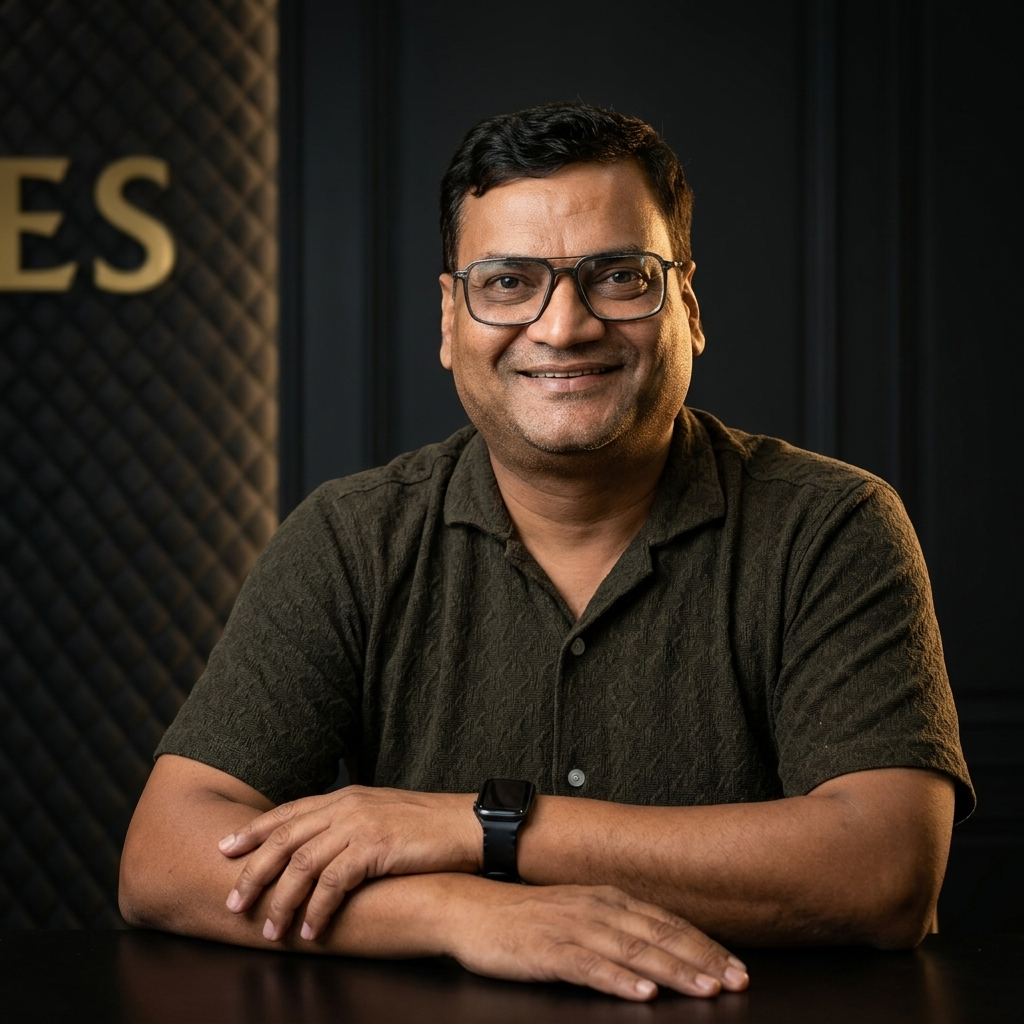
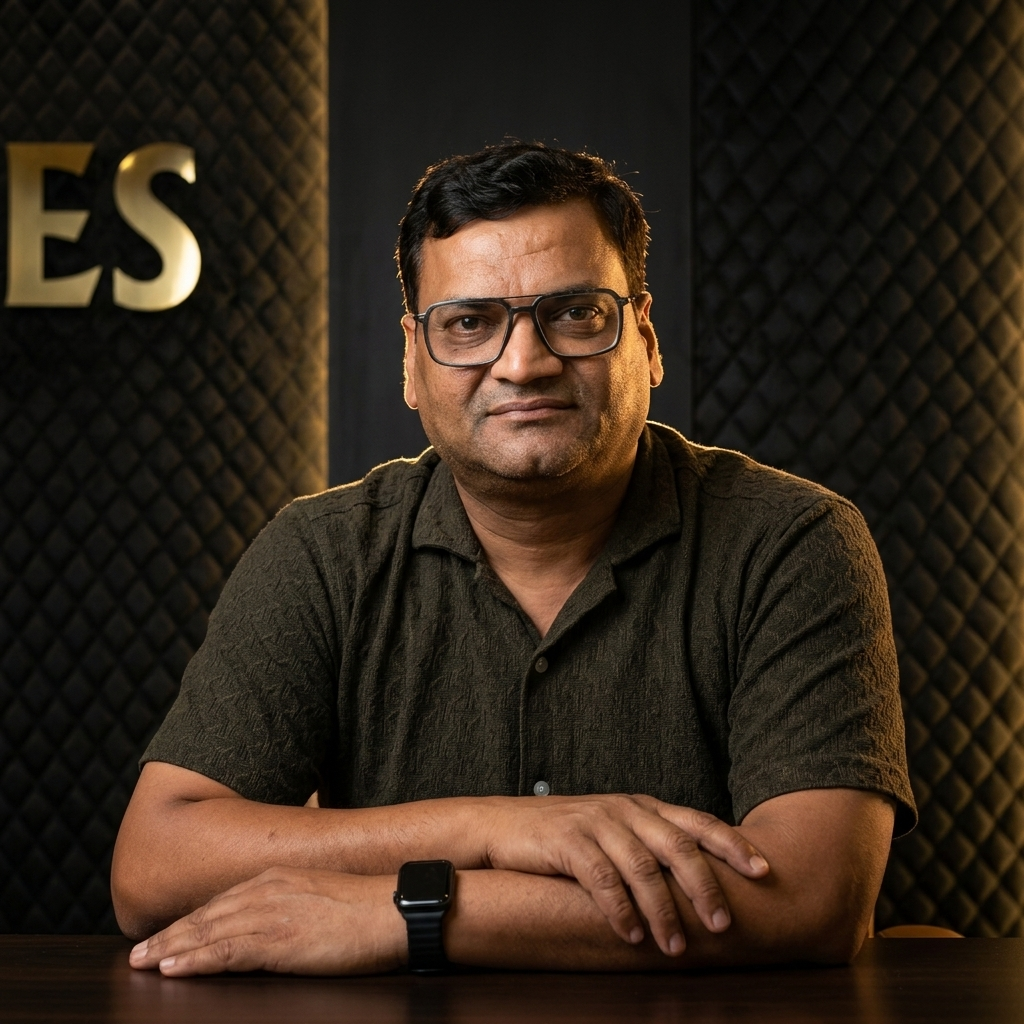
reverted photo.

diff --git a/src/app/layout.tsx b/src/app/layout.tsx
@@ -80,10 +80,11 @@ export const metadata: Metadata = {
   },
   icons: {
     icon: [
-      { url: "/favicon.ico" },
-      { url: "/icon.png", type: "image/png" },
+      { url: "/favicon.ico", sizes: "any" },
+      { url: "/icon.png", type: "image/png", sizes: "512x512" },
     ],
-    apple: [{ url: "/apple-icon.png" }],
+    apple: [{ url: "/apple-icon.png", sizes: "180x180", type: "image/png" }],
+    shortcut: "/icon.png",
   },
   manifest: "/manifest.json",
 };